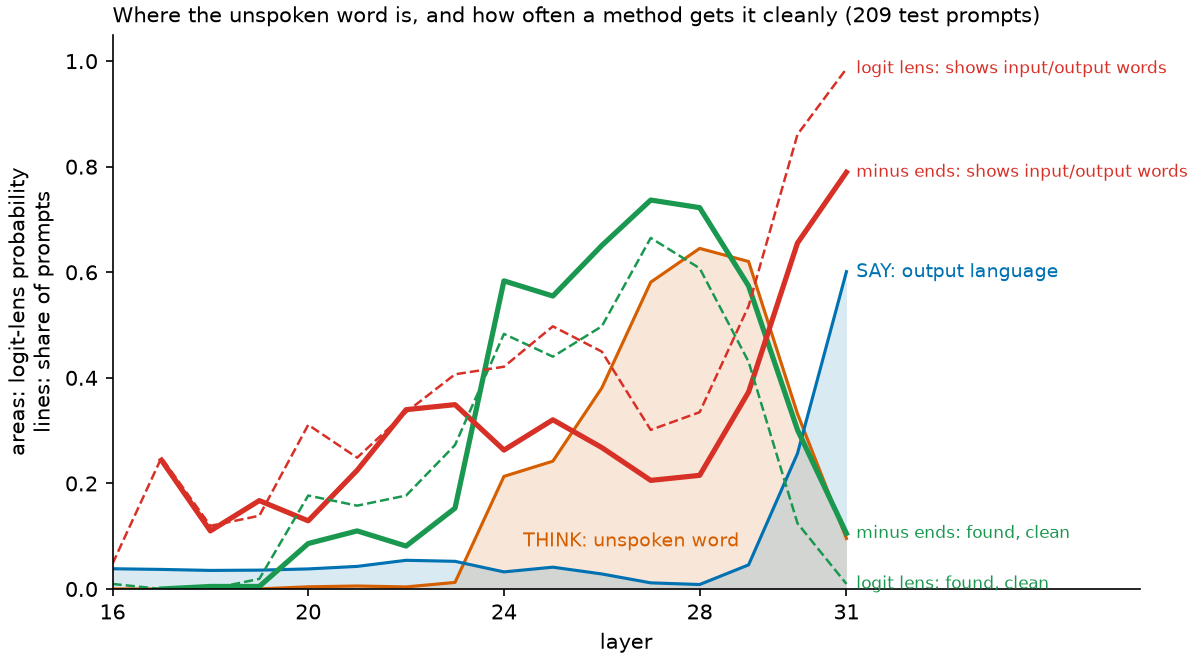
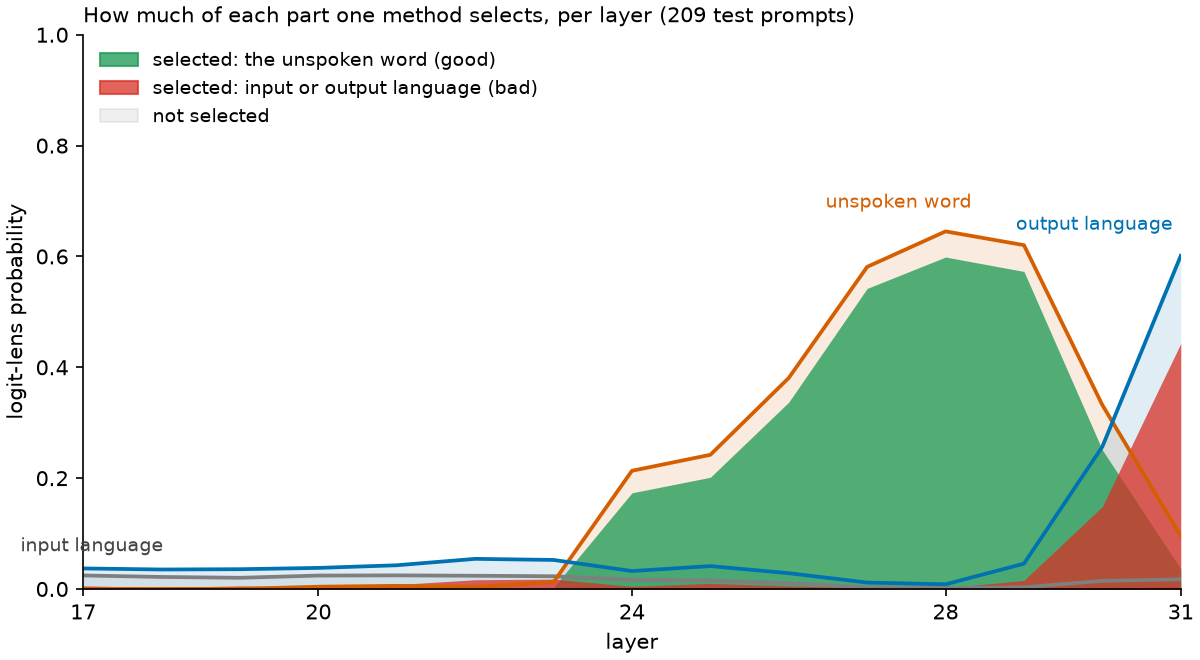
Figures: cartoon titled 'Unspoken Concepts Challenge' with INPUT/THOUGHTS/OUTPUT labels; per-layer plot shows input/middle/output areas with what one method selects (green good, red bad); README cartoon moved below the intro, fuller caption; F1 rounded
wassname 2026-10-06 review. Plot from saved data out/2026-10-06_160735_notebook (job 3145); fresh-eyes check (gemini-3.8-flash) read both figures correctly.

PI/OpenAI

diff --git a/scripts/challenge/notebook.py b/scripts/challenge/notebook.py
@@ -107,30 +107,28 @@ mean_truth = {k: torch.stack(v).mean(0)[: len(LAYERS)] for k, v in truth.items()
 
 torch.save(mean_truth, out / "truth_curves.pt")
 GREY, ORANGE, BLUE, GREEN, RED = "#7f7f7f", "#d55e00", "#0072b2", "#1a9850", "#d73027"
+METHOD = "minus ends"  # one method: the leaderboard's best idea, applied at each layer
+by_layer = {l: [r for r in rows if r["method"] == METHOD and r["layer"] == l] for l in LAYERS}
+ls_ = [l for l in LAYERS if by_layer[l]]
+share = lambda key: torch.tensor([sum(r[key] for r in by_layer[l]) / len(by_layer[l]) for l in ls_])
+curve = {k: mean_truth[k][[l - LAYERS[0] for l in ls_]] for k in mean_truth}
 fig, ax = plt.subplots(figsize=(8, 4.4), constrained_layout=True)
-# input-language words are near 0 at the last prompt token at every layer, so READ is left out (said in the caption)
-for k, color, label, xy, ha in (("unspoken", ORANGE, "THINK: unspoken word", (26.6, 0.09), "center"),
-                                ("output", BLUE, "SAY: output language", (31.2, 0.60), "left")):
-    y = mean_truth[k]
-    ax.fill_between(LAYERS, y, color=color, alpha=0.15, lw=0)
-    ax.plot(LAYERS, y, color=color, lw=1.5)
-    ax.text(*xy, label, color=color, ha=ha, va="center", fontsize=9)  # placed clear of the lines
-for name, ls in (("minus ends", "-"), ("logit lens", "--")):
-    by_layer = {l: [r for r in rows if r["method"] == name and r["layer"] == l] for l in LAYERS}
-    ls_ = [l for l in LAYERS if by_layer[l]]
-    clean = [sum(r["hidden"] and not r["leaked"] for r in by_layer[l]) / len(by_layer[l]) for l in ls_]
-    leak = [sum(r["leaked"] for r in by_layer[l]) / len(by_layer[l]) for l in ls_]
-    lw = 2.5 if ls == "-" else 1.2
-    ax.plot(ls_, clean, color=GREEN, ls=ls, lw=lw)
-    ax.plot(ls_, leak, color=RED, ls=ls, lw=lw)
-    ax.text(ls_[-1] + 0.2, clean[-1], f"{name}: found, clean", color=GREEN, fontsize=8, va="center")
-    ax.text(ls_[-1] + 0.2, leak[-1], f"{name}: shows input/output words", color=RED, fontsize=8, va="center")
-ax.set(xlim=(LAYERS[0], LAYERS[-1] + 6), ylim=(0, 1.05), xticks=[16, 20, 24, 28, 31], xlabel="layer",
-       ylabel="areas: logit-lens probability\nlines: share of prompts")
-ax.margins(x=0)
+for k, color, label, xy, ha in (("input", GREY, "input language", (16.2, 0.06), "left"),
+                                ("unspoken", ORANGE, "unspoken word", (27.4, 0.68), "center"),
+                                ("output", BLUE, "output language", (30.9, 0.64), "right")):
+    ax.fill_between(ls_, curve[k], color=color, alpha=0.12, lw=0)                 # what is there
+    ax.plot(ls_, curve[k], color=color, lw=1.8)
+    ax.text(*xy, label, color="#444444" if k == "input" else color, ha=ha, va="bottom", fontsize=9)  # grey text is too faint
+ax.fill_between(ls_, curve["unspoken"] * share("hidden"), color=GREEN, alpha=0.75, lw=0)      # selected, good
+ax.fill_between(ls_, curve["output"] * share("leaked_out"), color=RED, alpha=0.75, lw=0)      # selected, bad
+ax.fill_between(ls_, curve["input"] * share("leaked_in"), color=RED, alpha=0.75, lw=0)
+handles = [plt.Rectangle((0, 0), 1, 1, color=GREEN, alpha=0.75), plt.Rectangle((0, 0), 1, 1, color=RED, alpha=0.75),
+           plt.Rectangle((0, 0), 1, 1, color=GREY, alpha=0.12)]
+ax.legend(handles, ["selected: the unspoken word (good)", "selected: input or output language (bad)", "not selected"],
+          loc="upper left", frameon=False, fontsize=9)
+ax.set(xlim=(ls_[0], ls_[-1]), ylim=(0, 1), xticks=[17, 20, 24, 28, 31], xlabel="layer", ylabel="logit-lens probability")
 ax.spines[["top", "right"]].set_visible(False)
-ax.set_title(f"Where the unspoken word is, and how often a method gets it cleanly ({len(truth['unspoken'])} test prompts)",
-             fontsize=10, loc="left")
+ax.set_title(f"How much of each part one method selects, per layer ({len(truth['unspoken'])} test prompts)", fontsize=10, loc="left")
 fig.savefig(ROOT / "figs/layers.png", dpi=150)
 
 # %% [markdown]

diff --git a/scripts/challenge/plot_cartoon.py b/scripts/challenge/plot_cartoon.py
@@ -36,9 +36,9 @@ def label(x0, y0, name, words, color, family="DejaVu Sans"):
     ax.text(x0, y0 - 0.035, words, color=DARK[color], fontsize=13, ha="center", va="top", family=family)
 
 
-label(0.12, 0.22, "READ: Arabic", "شاي\n(tea)", GREY, family=["Noto Sans Arabic", "DejaVu Sans"])
-label(0.58, 0.36, "THINK: English", "tea  drink\ncoffee  vodka", ORANGE)
-label(0.865, 0.19, "SAY: Russian", "чай (tea)", BLUE)
+label(0.12, 0.22, "INPUT: Arabic", "شاي\n(tea)", GREY, family=["Noto Sans Arabic", "DejaVu Sans"])
+label(0.58, 0.36, "THOUGHTS: English", "tea  drink\ncoffee  vodka", ORANGE)
+label(0.865, 0.19, "OUTPUT: Russian", "чай (tea)", BLUE)
 
 ax.annotate("find this", xy=(0.635, 0.68), xytext=(0.66, 0.84), fontsize=14, color=DARK[ORANGE],
             weight="bold", arrowprops=dict(arrowstyle="->", color=ORANGE, lw=2))
@@ -47,8 +47,8 @@ ax.annotate("not this", xy=(0.22, 0.41), xytext=(0.27, 0.62), fontsize=14,
 ax.annotate("or this", xy=(0.955, 0.71), xytext=(0.90, 0.95), fontsize=14,
             arrowprops=dict(arrowstyle="->", color="k", lw=1.5))
 
-fig.text(0.5, 0.95, "Translating Arabic to Russian, the model thinks partly in English", fontsize=16, ha="center")
-fig.text(0.5, 0.885, "Challenge: find the thinking part, without using a dictionary", fontsize=15,
+fig.text(0.5, 0.95, "Unspoken Concepts Challenge", fontsize=17, ha="center")
+fig.text(0.5, 0.885, "Find the unspoken intermediate concepts in a language model.", fontsize=15,
          ha="center", weight="bold")
 ax.text(1.0, -0.035, "layers →", ha="right", va="top", fontsize=12, transform=ax.transAxes)
 ax.set_ylabel("how strongly the model\nholds each language")

diff --git a/scripts/challenge/score.py b/scripts/challenge/score.py
@@ -87,7 +87,7 @@ def render(table):
 commit = subprocess.run(["git", "rev-parse", "--short", "HEAD"], capture_output=True, text=True, cwd=ROOT).stdout.strip()
 caption = (f"Qwen3.5-4B, {n_test} test prompts ({', '.join(f'{a}→{b}' for a, b in TEST)}). 90% CI: bootstrap over prompts. Δ vs random: F1 minus the random subspace on the same "
            f"prompts. Hover a name for what it does. [Per-prompt rows]({out.relative_to(ROOT)}/rows.json.gz), commit {commit}.")
-short = [{"method": r["method"], "by": r["by"], "F1↑ (90% CI)": f'{r["F1↑"]} ({r["90% CI"]})'}
+short = [{"method": r["method"], "by": r["by"], "F1↑ (90% CI)": f'{r["F1↑"]:.2f} ({r["90% CI"]})'}
          for r in sorted(tables["geometry"], key=lambda r: -r["F1↑"])]  # README table: F1 ranks; the rest is on the full page
 geometry, reference = render(tables["geometry"]), render(tables["reference"])
 readme = tabulate(short, headers="keys", tablefmt="pipe", disable_numparse=True, colalign=("left", "left", "right"))

diff --git a/README.md b/README.md
@@ -4,15 +4,15 @@
 
 *Find the unspoken intermediate concepts in a language model.*
 
-<img src="figs/cartoon.png" data-fig-alt="Cartoon. Title: Translating Arabic to Russian, the model thinks partly in English. Subtitle: Challenge: find the thinking part, without using a dictionary. Three shaded curves over layers: grey READ: Arabic, شاي (tea), high early, arrow not this; orange THINK: English, tea drink coffee vodka, peaking in the middle, arrow find this; blue SAY: Russian, чай (tea), rising at the end, arrow or this. The curves are drawn by hand; the English words are a real readout." alt="Cartoon. Title: Translating Arabic to Russian, the model thinks partly in English. Subtitle: Challenge: find the thinking part, without using a dictionary. Three shaded curves over layers: grey READ: Arabic, شاي (tea), high early, arrow not this; orange THINK: English, tea drink coffee vodka, peaking in the middle, arrow find this; blue SAY: Russian, чай (tea), rising at the end, arrow or this. The curves are drawn by hand; the English words are a real readout." width="720" />
-
-Figure 1: **The challenge.** The model reads Arabic and says Russian; part of what it thinks in between can be read as English. The curves are drawn by hand; the English words are a real readout (J-lens, layer 23, Arabic→Russian "tea").
-
 In AI models we want to find where they process their concepts. It should be possible: unlike humans, we have every single byte of "brain activity" available in giant inscrutable matrices. The problem is that we don't understand how to read them.
 
 These giant matrices are called activations, and they can mix what the model reads, what it is thinking, and what it is about to say. This makes it difficult to disentangle them, but this challenge uses a simple translation setting to separate them. This lets us invite participants to find a way to isolate the activations, in the residual stream, that do the thinking but are never verbalised.
 
 If we could read and understand the model's concepts, it would improve many things. It would allow us to interpret, steer, and align models on their own concepts. Even getting closer will help with challenges like fragile chain of thought ([Korbak *et al.*, 2025](<https://arxiv.org/abs/2507.11473>)), eval awareness ([Needham *et al.*, 2025](<https://arxiv.org/abs/2505.23836>)), and alignment ([Marks *et al.*, 2025](<https://arxiv.org/abs/2503.10965>)); ([Clark, 2026](<https://wassname.com/agenda-character.html>)).
+
+<img src="figs/cartoon.png" data-fig-alt="Cartoon. Title: Unspoken Concepts Challenge. Subtitle: Find the unspoken intermediate concepts in a language model. Three shaded curves over layers: grey INPUT: Arabic, شاي (tea), high early, arrow not this; orange THOUGHTS: English, tea drink coffee vodka, peaking in the middle, arrow find this; blue OUTPUT: Russian, чай (tea), rising at the end, arrow or this. The curves are drawn by hand; the English words are a real readout." alt="Cartoon. Title: Unspoken Concepts Challenge. Subtitle: Find the unspoken intermediate concepts in a language model. Three shaded curves over layers: grey INPUT: Arabic, شاي (tea), high early, arrow not this; orange THOUGHTS: English, tea drink coffee vodka, peaking in the middle, arrow find this; blue OUTPUT: Russian, чай (tea), rising at the end, arrow or this. The curves are drawn by hand; the English words are a real readout." width="720" />
+
+Figure 1: **The challenge.** When Qwen translates the Arabic word for tea into Russian, its middle layers show the English words tea, drink, coffee and vodka, which it never says. The challenge is to find a method that picks out this middle part of the activations (the thoughts), and not the input (Arabic) or the output (Russian). The curves are drawn by hand; the words are a real readout of the model (J-lens at layer 23).
 
 ## Unspoken concepts
 
@@ -95,23 +95,23 @@ Please submit your own as an issue or PR!
 
 | method | by | F1↑ (90% CI) |
 |:---|:---|---:|
-| [minus ends, least-explained layer](scripts/challenge/transforms.py#L167 "As 'minus ends', but keep the one layer the two states explain least (picked per prompt, no labels)") |  | 0.8220338983050848 (0.80–0.85) |
-| [minus ends](scripts/challenge/transforms.py#L162 "Layers 17-31 minus the span of this prompt's layer-16 and output-layer states, averaged") |  | 0.7917525773195876 (0.77–0.82) |
-| [minus ends, recent tokens](scripts/challenge/transforms.py#L174 "As 'minus ends', but average the layer-16 and output states over the last 8 tokens first") | [Sandy Fraser](https://github.com/z0u) | 0.7860082304526749 (0.76–0.81) |
-| [layer-change PCA](scripts/challenge/transforms.py#L123 "Each layer projected on the top PCs of that layer's change on calibration text, averaged over layers 16-31") |  | 0.7784431137724551 (0.76–0.80) |
-| [net-change PCA](scripts/challenge/transforms.py#L130 "Mean over layers, projected on the top PCs of h32 - h16 on calibration text (AntiPaSTO without the output-head step)") |  | 0.7764705882352941 (0.76–0.80) |
-| [minus output PCA](scripts/challenge/transforms.py#L147 "Mean over layers, minus the top PCs of output-layer activations on calibration text") |  | 0.7659574468085106 (0.75–0.79) |
-| [AntiPaSTO subspace](scripts/challenge/transforms.py#L136 "Mean over layers, projected on AntiPaSTO's suppressed subspace (github.com/wassname/AntiPaSTO)") |  | 0.7610208816705336 (0.73–0.79) |
-| *[mean over layers](scripts/challenge/transforms.py#L108 "Logit lens of the last token, averaged over layers 16-32 (control)")* |  | 0.7235621521335807 (0.70–0.74) |
-| *[random subspace](scripts/challenge/transforms.py#L113 "Mean over layers, projected on a random rank-1024 subspace (control)")* |  | 0.6139954853273137 (0.57–0.65) |
-| [weak head directions](scripts/challenge/transforms.py#L142 "Mean over layers, projected on the directions the output head reads least") |  | 0.23057644110275688 (0.18–0.28) |
-| *[mean calibration text](scripts/challenge/transforms.py#L118 "Ignores the prompt: the mean layer-28 activation on calibration text (control)")* |  | 0.0 (0.00–0.00) |
+| [minus ends, least-explained layer](scripts/challenge/transforms.py#L167 "As 'minus ends', but keep the one layer the two states explain least (picked per prompt, no labels)") |  | 0.82 (0.80–0.85) |
+| [minus ends](scripts/challenge/transforms.py#L162 "Layers 17-31 minus the span of this prompt's layer-16 and output-layer states, averaged") |  | 0.79 (0.77–0.82) |
+| [minus ends, recent tokens](scripts/challenge/transforms.py#L174 "As 'minus ends', but average the layer-16 and output states over the last 8 tokens first") | [Sandy Fraser](https://github.com/z0u) | 0.79 (0.76–0.81) |
+| [layer-change PCA](scripts/challenge/transforms.py#L123 "Each layer projected on the top PCs of that layer's change on calibration text, averaged over layers 16-31") |  | 0.78 (0.76–0.80) |
+| [net-change PCA](scripts/challenge/transforms.py#L130 "Mean over layers, projected on the top PCs of h32 - h16 on calibration text (AntiPaSTO without the output-head step)") |  | 0.78 (0.76–0.80) |
+| [minus output PCA](scripts/challenge/transforms.py#L147 "Mean over layers, minus the top PCs of output-layer activations on calibration text") |  | 0.77 (0.75–0.79) |
+| [AntiPaSTO subspace](scripts/challenge/transforms.py#L136 "Mean over layers, projected on AntiPaSTO's suppressed subspace (github.com/wassname/AntiPaSTO)") |  | 0.76 (0.73–0.79) |
+| *[mean over layers](scripts/challenge/transforms.py#L108 "Logit lens of the last token, averaged over layers 16-32 (control)")* |  | 0.72 (0.70–0.74) |
+| *[random subspace](scripts/challenge/transforms.py#L113 "Mean over layers, projected on a random rank-1024 subspace (control)")* |  | 0.61 (0.57–0.65) |
+| [weak head directions](scripts/challenge/transforms.py#L142 "Mean over layers, projected on the directions the output head reads least") |  | 0.23 (0.18–0.28) |
+| *[mean calibration text](scripts/challenge/transforms.py#L118 "Ignores the prompt: the mean layer-28 activation on calibration text (control)")* |  | 0.00 (0.00–0.00) |
 
 Scored on 209 translation prompts. The range in brackets shows how much the score could vary with other prompts (90% interval). Hover over a name to see what the method does.
 
 The [full leaderboard](docs/leaderboard/README.md) has more columns. It also lists, for comparison, methods that break the rules by scoring words with the output head or the J-lens.
 
-<img src="figs/layers.png" id="fig-layers" data-fig-alt="One panel over layers 16 to 31. Shaded areas: logit-lens probability of the unspoken word (orange, peaking near 0.65 at layer 28) and of output-language words (blue, rising to 0.6 at layer 31). Minus ends finds the unspoken word cleanly on up to 74% of prompts at layer 27, against 66% for the logit lens, and shows input/output words less often from layer 24 on. Green lines: share of prompts where the method finds the unspoken word with nothing leaked; red lines: share where input- or output-language words show; solid for minus ends, dashed for the plain logit lens." alt="Where the unspoken word is, and how often a method gets it cleanly. Shaded: our cartoon with real data, the logit-lens probability of the unspoken word (THINK) and of output-language words (SAY), averaged over the test prompts. Input-language words are near zero at the last prompt token, so READ is not drawn. Lines: share of prompts where the top 8 words hold the unspoken word and nothing leaked (green), and where they show input- or output-language words (red), for &quot;minus ends&quot; at each layer (solid) and the plain logit lens (dashed). Made by notebook.py, Part 2." />
+<img src="figs/layers.png" id="fig-layers" data-fig-alt="One panel over layers 17 to 31. Outlined areas: input-language words near 0 throughout; the unspoken word rising from layer 24 to about 0.65 at layer 28 and falling by 31; output-language words rising to 0.6 at layer 31. Green fills most of the unspoken-word area from layer 24 to 29. Red fills part of the output-language area at layers 30 and 31." alt="How much of each part one method selects, per layer. The outlined areas are what is there: the logit-lens probability of input-language words (grey), the unspoken word (orange) and output-language words (blue), averaged over the test prompts. Coloured in is what the method selects: green is the share of prompts where its top 8 words include the unspoken word (good), red where they include input- or output-language words (bad). The method is &quot;minus ends&quot; at each layer: remove the directions of this prompt&#39;s layer-16 and output-layer states. Made by notebook.py, Part 2." />
 
 ## Enter
 

diff --git a/docs/leaderboard/geometry.md b/docs/leaderboard/geometry.md
@@ -1,13 +1,13 @@
 | method                                                                                                                                                                          | by                                     |                    F1↑ (90% CI) |
 |:--------------------------------------------------------------------------------------------------------------------------------------------------------------------------------|:---------------------------------------|--------------------------------:|
-| [minus ends, least-explained layer](scripts/challenge/transforms.py#L167 "As 'minus ends', but keep the one layer the two states explain least (picked per prompt, no labels)") |                                        |  0.8220338983050848 (0.80–0.85) |
-| [minus ends](scripts/challenge/transforms.py#L162 "Layers 17-31 minus the span of this prompt's layer-16 and output-layer states, averaged")                                    |                                        |  0.7917525773195876 (0.77–0.82) |
-| [minus ends, recent tokens](scripts/challenge/transforms.py#L174 "As 'minus ends', but average the layer-16 and output states over the last 8 tokens first")                    | [Sandy Fraser](https://github.com/z0u) |  0.7860082304526749 (0.76–0.81) |
-| [layer-change PCA](scripts/challenge/transforms.py#L123 "Each layer projected on the top PCs of that layer's change on calibration text, averaged over layers 16-31")           |                                        |  0.7784431137724551 (0.76–0.80) |
-| [net-change PCA](scripts/challenge/transforms.py#L130 "Mean over layers, projected on the top PCs of h32 - h16 on calibration text (AntiPaSTO without the output-head step)")   |                                        |  0.7764705882352941 (0.76–0.80) |
-| [minus output PCA](scripts/challenge/transforms.py#L147 "Mean over layers, minus the top PCs of output-layer activations on calibration text")                                  |                                        |  0.7659574468085106 (0.75–0.79) |
-| [AntiPaSTO subspace](scripts/challenge/transforms.py#L136 "Mean over layers, projected on AntiPaSTO's suppressed subspace (github.com/wassname/AntiPaSTO)")                     |                                        |  0.7610208816705336 (0.73–0.79) |
-| *[mean over layers](scripts/challenge/transforms.py#L108 "Logit lens of the last token, averaged over layers 16-32 (control)")*                                                 |                                        |  0.7235621521335807 (0.70–0.74) |
-| *[random subspace](scripts/challenge/transforms.py#L113 "Mean over layers, projected on a random rank-1024 subspace (control)")*                                                |                                        |  0.6139954853273137 (0.57–0.65) |
-| [weak head directions](scripts/challenge/transforms.py#L142 "Mean over layers, projected on the directions the output head reads least")                                        |                                        | 0.23057644110275688 (0.18–0.28) |
-| *[mean calibration text](scripts/challenge/transforms.py#L118 "Ignores the prompt: the mean layer-28 activation on calibration text (control)")*                                |                                        |                 0.0 (0.00–0.00) |
+| [minus ends, least-explained layer](scripts/challenge/transforms.py#L167 "As 'minus ends', but keep the one layer the two states explain least (picked per prompt, no labels)") |                                        |  0.82 (0.80–0.85) |
+| [minus ends](scripts/challenge/transforms.py#L162 "Layers 17-31 minus the span of this prompt's layer-16 and output-layer states, averaged")                                    |                                        |  0.79 (0.77–0.82) |
+| [minus ends, recent tokens](scripts/challenge/transforms.py#L174 "As 'minus ends', but average the layer-16 and output states over the last 8 tokens first")                    | [Sandy Fraser](https://github.com/z0u) |  0.79 (0.76–0.81) |
+| [layer-change PCA](scripts/challenge/transforms.py#L123 "Each layer projected on the top PCs of that layer's change on calibration text, averaged over layers 16-31")           |                                        |  0.78 (0.76–0.80) |
+| [net-change PCA](scripts/challenge/transforms.py#L130 "Mean over layers, projected on the top PCs of h32 - h16 on calibration text (AntiPaSTO without the output-head step)")   |                                        |  0.78 (0.76–0.80) |
+| [minus output PCA](scripts/challenge/transforms.py#L147 "Mean over layers, minus the top PCs of output-layer activations on calibration text")                                  |                                        |  0.77 (0.75–0.79) |
+| [AntiPaSTO subspace](scripts/challenge/transforms.py#L136 "Mean over layers, projected on AntiPaSTO's suppressed subspace (github.com/wassname/AntiPaSTO)")                     |                                        |  0.76 (0.73–0.79) |
+| *[mean over layers](scripts/challenge/transforms.py#L108 "Logit lens of the last token, averaged over layers 16-32 (control)")*                                                 |                                        |  0.72 (0.70–0.74) |
+| *[random subspace](scripts/challenge/transforms.py#L113 "Mean over layers, projected on a random rank-1024 subspace (control)")*                                                |                                        |  0.61 (0.57–0.65) |
+| [weak head directions](scripts/challenge/transforms.py#L142 "Mean over layers, projected on the directions the output head reads least")                                        |                                        | 0.23 (0.18–0.28) |
+| *[mean calibration text](scripts/challenge/transforms.py#L118 "Ignores the prompt: the mean layer-28 activation on calibration text (control)")*                                |                                        |                 0.00 (0.00–0.00) |
